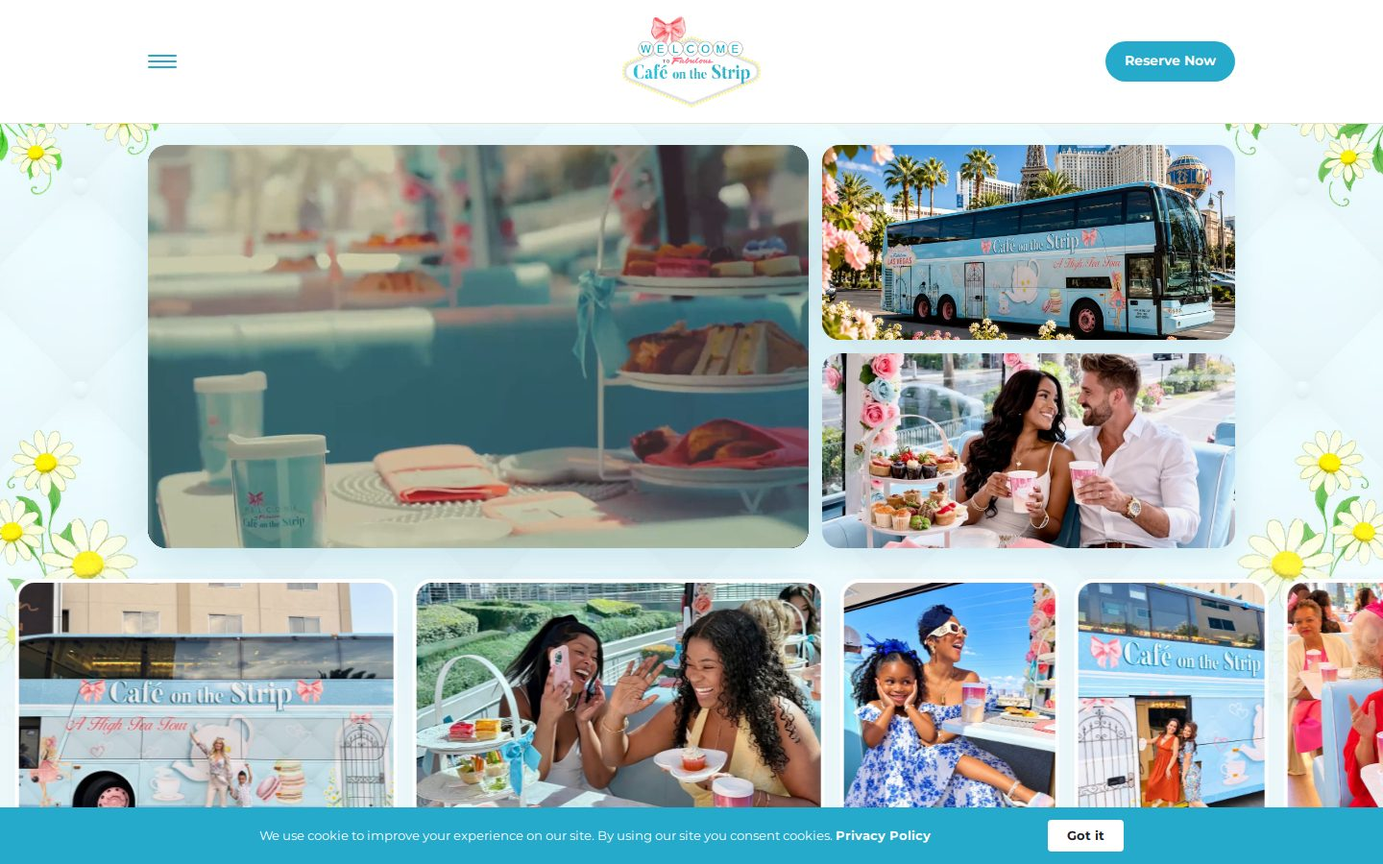
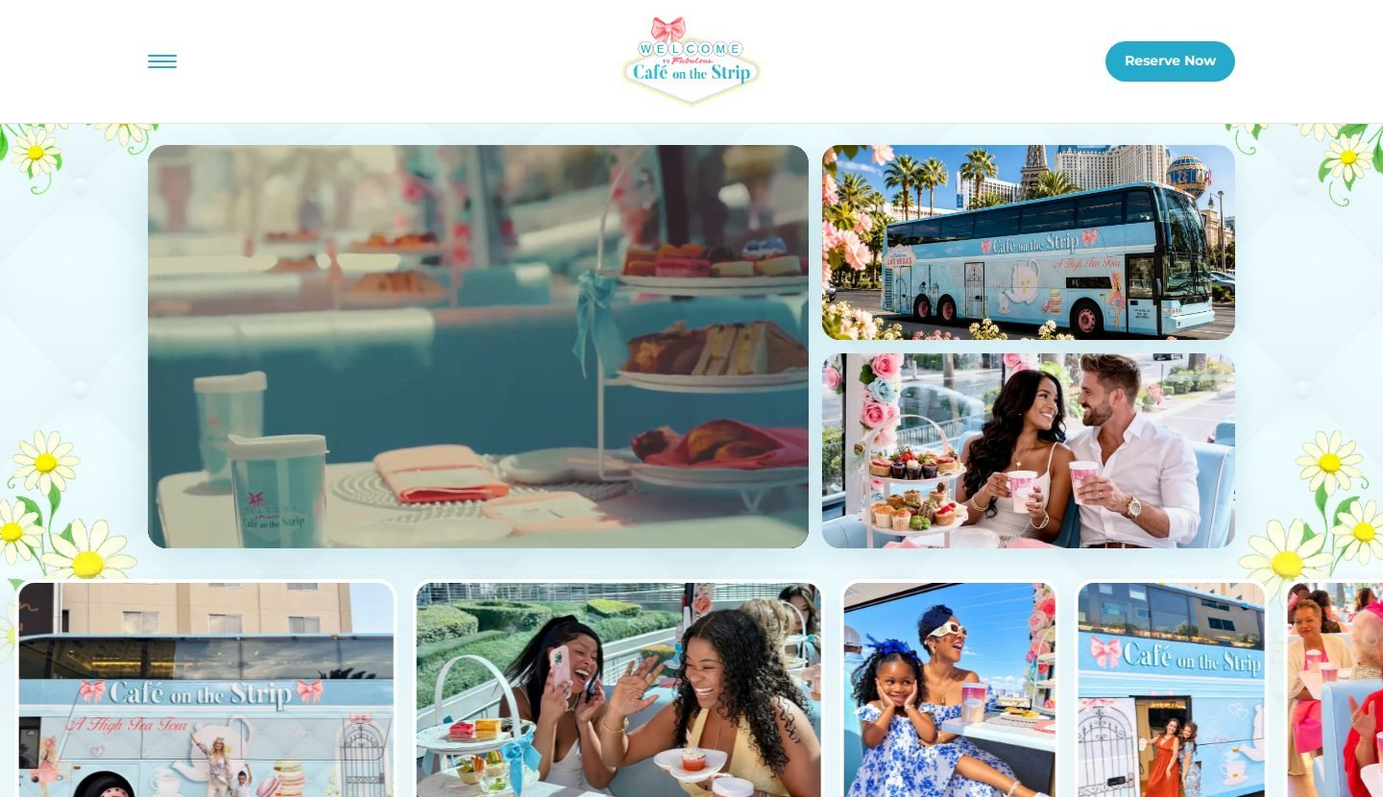
Use fresh client site screenshots across homepage, v2 and client pages
Claude-Session: https://claude.ai/code/session_01Q4xLUYNNi7cM25MPAQdF7H

diff --git a/v2/index.html b/v2/index.html
@@ -63,7 +63,7 @@ header nav .btn{min-height:44px;padding:12px 22px}
 .wall:hover .strip{animation-play-state:paused}
 @keyframes rise{to{transform:translateY(-50%)}}
 .tile{position:relative;border-radius:8px;overflow:hidden;background:var(--panel);border:1px solid var(--rule2)}
-.tile img{width:100%;height:100%;object-fit:cover;object-position:top}
+.tile img{width:100%;height:100%;object-fit:cover;object-position:center top}
 .tile.v img{object-position:center}
 .tile .cap{position:absolute;left:0;right:0;bottom:0;padding:28px 12px 10px;font-size:11px;letter-spacing:1.5px;font-weight:700;text-transform:uppercase;background:linear-gradient(transparent,rgba(10,22,41,.92))}
 .tile .play{position:absolute;right:10px;top:10px;width:30px;height:30px;border-radius:50%;background:var(--orange);display:grid;place-items:center}
@@ -321,7 +321,7 @@ footer nav{display:flex;gap:24px;flex-wrap:wrap}
     </div>
   </div>
   <div class="wall" aria-label="Recent client work">
-    <div class="col" aria-hidden="true"><div class="strip"><div class="tile t-web"><img src="../assets/4d2ef592d0510e323ba92edc35708845.jpg" alt="" loading="eager"><span class="cap">Cosmic Cat, website</span></div><div class="tile t-vid v"><img src="https://i.ytimg.com/vi/BVcCxSfqfWM/hqdefault.jpg" alt=""><span class="play"><svg viewBox="0 0 24 24" aria-hidden="true"><path d="M6 4l14 8-14 8z"/></svg></span><span class="cap">LIUNA, sizzle reel</span></div><div class="tile t-web"><img src="../assets/c8e443209d854f37bfb68903a9dd63be.jpg" alt="" loading="eager"><span class="cap">Miracle Hope, newsletter</span></div><div class="tile t-vid v"><img src="https://i.ytimg.com/vi/6BNDppvrbQU/hqdefault.jpg" alt=""><span class="play"><svg viewBox="0 0 24 24" aria-hidden="true"><path d="M6 4l14 8-14 8z"/></svg></span><span class="cap">Gala interview reel</span></div><div class="tile t-web"><img src="../assets/4d2ef592d0510e323ba92edc35708845.jpg" alt="" loading="eager"><span class="cap">Cosmic Cat, website</span></div><div class="tile t-vid v"><img src="https://i.ytimg.com/vi/BVcCxSfqfWM/hqdefault.jpg" alt=""><span class="play"><svg viewBox="0 0 24 24" aria-hidden="true"><path d="M6 4l14 8-14 8z"/></svg></span><span class="cap">LIUNA, sizzle reel</span></div><div class="tile t-web"><img src="../assets/c8e443209d854f37bfb68903a9dd63be.jpg" alt="" loading="eager"><span class="cap">Miracle Hope, newsletter</span></div><div class="tile t-vid v"><img src="https://i.ytimg.com/vi/6BNDppvrbQU/hqdefault.jpg" alt=""><span class="play"><svg viewBox="0 0 24 24" aria-hidden="true"><path d="M6 4l14 8-14 8z"/></svg></span><span class="cap">Gala interview reel</span></div></div></div><div class="col" aria-hidden="true"><div class="strip"><div class="tile t-vid v"><img src="https://i.ytimg.com/vi/4AgsZDz6i4E/hqdefault.jpg" alt=""><span class="play"><svg viewBox="0 0 24 24" aria-hidden="true"><path d="M6 4l14 8-14 8z"/></svg></span><span class="cap">Las Vegas Ballpark</span></div><div class="tile t-web"><img src="../assets/af09f8afabef745e9b5a152f12bcb552.jpg" alt="" loading="eager"><span class="cap">Drai&#x27;s, landing page</span></div><div class="tile t-vid v"><img src="https://i.ytimg.com/vi/1YlhCGgxdyA/hqdefault.jpg" alt=""><span class="play"><svg viewBox="0 0 24 24" aria-hidden="true"><path d="M6 4l14 8-14 8z"/></svg></span><span class="cap">TRF golf recap</span></div><div class="tile t-web"><img src="../assets/ae7b56d620756728c87436f4ed4a68c7.jpg" alt="" loading="eager"><span class="cap">Cafe on the Strip, ads</span></div><div class="tile t-vid v"><img src="https://i.ytimg.com/vi/4AgsZDz6i4E/hqdefault.jpg" alt=""><span class="play"><svg viewBox="0 0 24 24" aria-hidden="true"><path d="M6 4l14 8-14 8z"/></svg></span><span class="cap">Las Vegas Ballpark</span></div><div class="tile t-web"><img src="../assets/af09f8afabef745e9b5a152f12bcb552.jpg" alt="" loading="eager"><span class="cap">Drai&#x27;s, landing page</span></div><div class="tile t-vid v"><img src="https://i.ytimg.com/vi/1YlhCGgxdyA/hqdefault.jpg" alt=""><span class="play"><svg viewBox="0 0 24 24" aria-hidden="true"><path d="M6 4l14 8-14 8z"/></svg></span><span class="cap">TRF golf recap</span></div><div class="tile t-web"><img src="../assets/ae7b56d620756728c87436f4ed4a68c7.jpg" alt="" loading="eager"><span class="cap">Cafe on the Strip, ads</span></div></div></div><div class="col" aria-hidden="true"><div class="strip"><div class="tile t-web"><img src="../assets/a9a64227ffe4d25c3906b8d315104791.jpg" alt="" loading="eager"><span class="cap">Tyler Robinson Foundation, website</span></div><div class="tile t-vid v"><img src="https://i.ytimg.com/vi/_neFfasAwqs/hqdefault.jpg" alt=""><span class="play"><svg viewBox="0 0 24 24" aria-hidden="true"><path d="M6 4l14 8-14 8z"/></svg></span><span class="cap">UNLV Football Foundation</span></div><div class="tile t-web"><img src="../assets/4d2ef592d0510e323ba92edc35708845.jpg" alt="" loading="eager"><span class="cap">Cosmic Cat, website</span></div><div class="tile t-vid v"><img src="https://i.ytimg.com/vi/Twy-9ifWDFc/hqdefault.jpg" alt=""><span class="play"><svg viewBox="0 0 24 24" aria-hidden="true"><path d="M6 4l14 8-14 8z"/></svg></span><span class="cap">Cure 4 Kids golf classic</span></div><div class="tile t-web"><img src="../assets/a9a64227ffe4d25c3906b8d315104791.jpg" alt="" loading="eager"><span class="cap">Tyler Robinson Foundation, website</span></div><div class="tile t-vid v"><img src="https://i.ytimg.com/vi/_neFfasAwqs/hqdefault.jpg" alt=""><span class="play"><svg viewBox="0 0 24 24" aria-hidden="true"><path d="M6 4l14 8-14 8z"/></svg></span><span class="cap">UNLV Football Foundation</span></div><div class="tile t-web"><img src="../assets/4d2ef592d0510e323ba92edc35708845.jpg" alt="" loading="eager"><span class="cap">Cosmic Cat, website</span></div><div class="tile t-vid v"><img src="https://i.ytimg.com/vi/Twy-9ifWDFc/hqdefault.jpg" alt=""><span class="play"><svg viewBox="0 0 24 24" aria-hidden="true"><path d="M6 4l14 8-14 8z"/></svg></span><span class="cap">Cure 4 Kids golf classic</span></div></div></div>
+    <div class="col" aria-hidden="true"><div class="strip"><div class="tile t-web"><img src="../assets/shots/cosmic-cat-mob.jpg" alt="" loading="eager"><span class="cap">Cosmic Cat, website</span></div><div class="tile t-vid v"><img src="https://i.ytimg.com/vi/BVcCxSfqfWM/hqdefault.jpg" alt=""><span class="play"><svg viewBox="0 0 24 24" aria-hidden="true"><path d="M6 4l14 8-14 8z"/></svg></span><span class="cap">LIUNA, sizzle reel</span></div><div class="tile t-web"><img src="../assets/shots/miracle-hope-foundation-mob.jpg" alt="" loading="eager"><span class="cap">Miracle Hope, website</span></div><div class="tile t-vid v"><img src="https://i.ytimg.com/vi/6BNDppvrbQU/hqdefault.jpg" alt=""><span class="play"><svg viewBox="0 0 24 24" aria-hidden="true"><path d="M6 4l14 8-14 8z"/></svg></span><span class="cap">Gala interview reel</span></div><div class="tile t-web"><img src="../assets/shots/cosmic-cat-mob.jpg" alt="" loading="eager"><span class="cap">Cosmic Cat, website</span></div><div class="tile t-vid v"><img src="https://i.ytimg.com/vi/BVcCxSfqfWM/hqdefault.jpg" alt=""><span class="play"><svg viewBox="0 0 24 24" aria-hidden="true"><path d="M6 4l14 8-14 8z"/></svg></span><span class="cap">LIUNA, sizzle reel</span></div><div class="tile t-web"><img src="../assets/shots/miracle-hope-foundation-mob.jpg" alt="" loading="eager"><span class="cap">Miracle Hope, website</span></div><div class="tile t-vid v"><img src="https://i.ytimg.com/vi/6BNDppvrbQU/hqdefault.jpg" alt=""><span class="play"><svg viewBox="0 0 24 24" aria-hidden="true"><path d="M6 4l14 8-14 8z"/></svg></span><span class="cap">Gala interview reel</span></div></div></div><div class="col" aria-hidden="true"><div class="strip"><div class="tile t-vid v"><img src="https://i.ytimg.com/vi/4AgsZDz6i4E/hqdefault.jpg" alt=""><span class="play"><svg viewBox="0 0 24 24" aria-hidden="true"><path d="M6 4l14 8-14 8z"/></svg></span><span class="cap">Las Vegas Ballpark</span></div><div class="tile t-web"><img src="../assets/shots/drais-after-hours-mob.jpg" alt="" loading="eager"><span class="cap">Drai&#x27;s, website</span></div><div class="tile t-vid v"><img src="https://i.ytimg.com/vi/1YlhCGgxdyA/hqdefault.jpg" alt=""><span class="play"><svg viewBox="0 0 24 24" aria-hidden="true"><path d="M6 4l14 8-14 8z"/></svg></span><span class="cap">TRF golf recap</span></div><div class="tile t-web"><img src="../assets/shots/cafe-on-the-strip-mob.jpg" alt="" loading="eager"><span class="cap">Cafe on the Strip, website</span></div><div class="tile t-vid v"><img src="https://i.ytimg.com/vi/4AgsZDz6i4E/hqdefault.jpg" alt=""><span class="play"><svg viewBox="0 0 24 24" aria-hidden="true"><path d="M6 4l14 8-14 8z"/></svg></span><span class="cap">Las Vegas Ballpark</span></div><div class="tile t-web"><img src="../assets/shots/drais-after-hours-mob.jpg" alt="" loading="eager"><span class="cap">Drai&#x27;s, website</span></div><div class="tile t-vid v"><img src="https://i.ytimg.com/vi/1YlhCGgxdyA/hqdefault.jpg" alt=""><span class="play"><svg viewBox="0 0 24 24" aria-hidden="true"><path d="M6 4l14 8-14 8z"/></svg></span><span class="cap">TRF golf recap</span></div><div class="tile t-web"><img src="../assets/shots/cafe-on-the-strip-mob.jpg" alt="" loading="eager"><span class="cap">Cafe on the Strip, website</span></div></div></div><div class="col" aria-hidden="true"><div class="strip"><div class="tile t-web"><img src="../assets/a9a64227ffe4d25c3906b8d315104791.jpg" alt="" loading="eager"><span class="cap">Tyler Robinson Foundation, website</span></div><div class="tile t-vid v"><img src="https://i.ytimg.com/vi/_neFfasAwqs/hqdefault.jpg" alt=""><span class="play"><svg viewBox="0 0 24 24" aria-hidden="true"><path d="M6 4l14 8-14 8z"/></svg></span><span class="cap">UNLV Football Foundation</span></div><div class="tile t-web"><img src="../assets/shots/cosmic-cat-mob.jpg" alt="" loading="eager"><span class="cap">Cosmic Cat, website</span></div><div class="tile t-vid v"><img src="https://i.ytimg.com/vi/Twy-9ifWDFc/hqdefault.jpg" alt=""><span class="play"><svg viewBox="0 0 24 24" aria-hidden="true"><path d="M6 4l14 8-14 8z"/></svg></span><span class="cap">Cure 4 Kids golf classic</span></div><div class="tile t-web"><img src="../assets/a9a64227ffe4d25c3906b8d315104791.jpg" alt="" loading="eager"><span class="cap">Tyler Robinson Foundation, website</span></div><div class="tile t-vid v"><img src="https://i.ytimg.com/vi/_neFfasAwqs/hqdefault.jpg" alt=""><span class="play"><svg viewBox="0 0 24 24" aria-hidden="true"><path d="M6 4l14 8-14 8z"/></svg></span><span class="cap">UNLV Football Foundation</span></div><div class="tile t-web"><img src="../assets/shots/cosmic-cat-mob.jpg" alt="" loading="eager"><span class="cap">Cosmic Cat, website</span></div><div class="tile t-vid v"><img src="https://i.ytimg.com/vi/Twy-9ifWDFc/hqdefault.jpg" alt=""><span class="play"><svg viewBox="0 0 24 24" aria-hidden="true"><path d="M6 4l14 8-14 8z"/></svg></span><span class="cap">Cure 4 Kids golf classic</span></div></div></div>
   </div>
   <div class="scrollcue" aria-hidden="true"><i></i>Scroll</div>
 </section>
@@ -347,7 +347,7 @@ footer nav{display:flex;gap:24px;flex-wrap:wrap}
     <div class="tally">
       <div class="count os" aria-live="polite"><b id="fixed">0</b> of 5 fixed</div>
       <a class="casechip" href="../cosmic-cat.html">
-        <img src="../assets/4d2ef592d0510e323ba92edc35708845.jpg" alt="">
+        <img src="../assets/shots/cosmic-cat-desk.jpg" alt="">
         <div><small>RECENT SETUP</small><span>Cosmic Cat Claw Arcade: scattered logins to a live booking system</span></div>
       </a>
     </div>
@@ -381,7 +381,7 @@ footer nav{display:flex;gap:24px;flex-wrap:wrap}
             </div>
             <div class="rv">
               <a class="proof" href="../cosmic-cat.html">
-                <div class="shot"><img class="par" src="../assets/4d2ef592d0510e323ba92edc35708845.jpg" alt="Cosmic Cat Claw Arcade website"></div>
+                <div class="shot"><img class="par" src="../assets/shots/cosmic-cat-desk.jpg" alt="Cosmic Cat Claw Arcade website"></div>
                 <div class="bar"><div><small>RECENT WORK</small><span>Cosmic Cat party bookings on Shopify</span></div><span class="go">View project →</span></div>
               </a>
             </div>
@@ -440,8 +440,8 @@ footer nav{display:flex;gap:24px;flex-wrap:wrap}
             </div>
             <div class="rv">
               <a class="proof" href="../cafe-on-the-strip.html">
-                <div class="shot"><img class="par" src="../assets/ae7b56d620756728c87436f4ed4a68c7.jpg" alt="Cafe on the Strip ad landing page"></div>
-                <div class="bar"><div><small>RECENT WORK</small><span>Cafe on the Strip Meta campaigns</span></div><span class="go">View project →</span></div>
+                <div class="shot"><img class="par" src="../assets/shots/cafe-on-the-strip-desk.jpg" alt="Cafe on the Strip website"></div>
+                <div class="bar"><div><small>RECENT WORK</small><span>Cafe on the Strip: site, listings and Meta ads</span></div><span class="go">View project →</span></div>
               </a>
             </div>
           </div>
@@ -458,7 +458,7 @@ footer nav{display:flex;gap:24px;flex-wrap:wrap}
       <p>Open any client to see every project we delivered for them.</p>
     </div>
     <div class="cgrid">
-      <a class="ccard rv" href="../cosmic-cat.html"><div class="im"><img src="../assets/4d2ef592d0510e323ba92edc35708845.jpg" alt="" loading="lazy"></div><div class="tx"><span class="ind">Family entertainment</span><h3 class="os">Cosmic Cat Claw Arcade</h3><div class="tags"><span>Setup</span><span>Design &amp; web</span><span>Search</span></div><span class="more">See every project →</span></div></a><a class="ccard rv" href="../drais-after-hours.html"><div class="im"><img src="../assets/af09f8afabef745e9b5a152f12bcb552.jpg" alt="" loading="lazy"></div><div class="tx"><span class="ind">Nightlife</span><h3 class="os">Drai&#x27;s After Hours</h3><div class="tags"><span>Design &amp; web</span><span>Email</span><span>Search</span></div><span class="more">See every project →</span></div></a><a class="ccard rv" href="../cafe-on-the-strip.html"><div class="im"><img src="../assets/ae7b56d620756728c87436f4ed4a68c7.jpg" alt="" loading="lazy"></div><div class="tx"><span class="ind">Tours and hospitality</span><h3 class="os">Cafe on the Strip</h3><div class="tags"><span>Design &amp; web</span><span>Content</span><span>Search</span></div><span class="more">See every project →</span></div></a><a class="ccard rv" href="../tyler-robinson-foundation.html"><div class="im"><img src="../assets/a9a64227ffe4d25c3906b8d315104791.jpg" alt="" loading="lazy"></div><div class="tx"><span class="ind">Nonprofit</span><h3 class="os">Tyler Robinson Foundation</h3><div class="tags"><span>Design &amp; web</span><span>Video</span></div><span class="more">See every project →</span></div></a><a class="ccard rv" href="../miracle-hope-foundation.html"><div class="im"><img src="../assets/c8e443209d854f37bfb68903a9dd63be.jpg" alt="" loading="lazy"></div><div class="tx"><span class="ind">Nonprofit</span><h3 class="os">Miracle Hope Foundation</h3><div class="tags"><span>Design &amp; web</span><span>Email</span></div><span class="more">See every project →</span></div></a><a class="ccard rv" href="../booty-thai-kitchen.html"><div class="im"><img src="../assets/9c96955e3954576f271ee670466c9be8.jpg" alt="" loading="lazy"></div><div class="tx"><span class="ind">Restaurant</span><h3 class="os">Booty Thai Kitchen</h3><div class="tags"><span>Design &amp; web</span></div><span class="more">See every project →</span></div></a>
+      <a class="ccard rv" href="../cosmic-cat.html"><div class="im"><img src="../assets/shots/cosmic-cat-desk.jpg" alt="" loading="lazy"></div><div class="tx"><span class="ind">Family entertainment</span><h3 class="os">Cosmic Cat Claw Arcade</h3><div class="tags"><span>Setup</span><span>Design &amp; web</span><span>Search</span></div><span class="more">See every project →</span></div></a><a class="ccard rv" href="../drais-after-hours.html"><div class="im"><img src="../assets/shots/drais-after-hours-desk.jpg" alt="" loading="lazy"></div><div class="tx"><span class="ind">Nightlife</span><h3 class="os">Drai&#x27;s After Hours</h3><div class="tags"><span>Design &amp; web</span><span>Email</span><span>Search</span></div><span class="more">See every project →</span></div></a><a class="ccard rv" href="../cafe-on-the-strip.html"><div class="im"><img src="../assets/shots/cafe-on-the-strip-desk.jpg" alt="" loading="lazy"></div><div class="tx"><span class="ind">Tours and hospitality</span><h3 class="os">Cafe on the Strip</h3><div class="tags"><span>Design &amp; web</span><span>Content</span><span>Search</span></div><span class="more">See every project →</span></div></a><a class="ccard rv" href="../tyler-robinson-foundation.html"><div class="im"><img src="../assets/a9a64227ffe4d25c3906b8d315104791.jpg" alt="" loading="lazy"></div><div class="tx"><span class="ind">Nonprofit</span><h3 class="os">Tyler Robinson Foundation</h3><div class="tags"><span>Design &amp; web</span><span>Video</span></div><span class="more">See every project →</span></div></a><a class="ccard rv" href="../miracle-hope-foundation.html"><div class="im"><img src="../assets/shots/miracle-hope-foundation-desk.jpg" alt="" loading="lazy"></div><div class="tx"><span class="ind">Nonprofit</span><h3 class="os">Miracle Hope Foundation</h3><div class="tags"><span>Design &amp; web</span><span>Email</span></div><span class="more">See every project →</span></div></a><a class="ccard rv" href="../booty-thai-kitchen.html"><div class="im"><img src="../assets/shots/booty-thai-kitchen-desk.jpg" alt="" loading="lazy"></div><div class="tx"><span class="ind">Restaurant</span><h3 class="os">Booty Thai Kitchen</h3><div class="tags"><span>Design &amp; web</span></div><span class="more">See every project →</span></div></a>
     </div>
     <p class="also rv">Also: Fatburger Hughes Center, Peaks Advisory Group, UNLV Football Foundation, Desert Moon Wellness</p>
   </div>

diff --git a/index.html b/index.html
@@ -110,15 +110,15 @@ a{color:#FFFFFF;text-decoration:none}a:hover{color:#2BA9E0}
 <div class="stack" style="position: relative; height: 600px">
 <div class="stack-item" style="position: absolute; left: 0; top: 40px; width: 470px; border-radius: 10px; overflow: hidden; background: #13233F; border: 1px solid #22385E; transform: rotate(-4deg); box-shadow: 0 30px 60px rgba(0,0,0,0.45)">
 <div style="height: 28px; display: flex; align-items: center; gap: 6px; padding: 0 12px"><span style="width: 8px; height: 8px; border-radius: 50%; background: #2E4468"></span><span style="width: 8px; height: 8px; border-radius: 50%; background: #2E4468"></span><span style="width: 8px; height: 8px; border-radius: 50%; background: #2E4468"></span></div>
-<img src="assets/af09f8afabef745e9b5a152f12bcb552.jpg" alt="Drai's After Hours bachelorette landing page" style="display: block; width: 100%; height: 294px; object-fit: cover; object-position: top">
+<img src="assets/shots/drais-after-hours-desk.jpg" alt="Drai's After Hours bachelorette landing page" style="display: block; width: 100%; height: 294px; object-fit: cover; object-position: top">
 </div>
 <div class="stack-item" style="position: absolute; right: 0; top: 0; width: 440px; border-radius: 10px; overflow: hidden; background: #13233F; border: 1px solid #22385E; transform: rotate(3deg); box-shadow: 0 30px 60px rgba(0,0,0,0.45)">
 <div style="height: 28px; display: flex; align-items: center; gap: 6px; padding: 0 12px"><span style="width: 8px; height: 8px; border-radius: 50%; background: #2E4468"></span><span style="width: 8px; height: 8px; border-radius: 50%; background: #2E4468"></span><span style="width: 8px; height: 8px; border-radius: 50%; background: #2E4468"></span></div>
-<img src="assets/ae7b56d620756728c87436f4ed4a68c7.jpg" alt="Cafe on the Strip" style="display: block; width: 100%; height: 275px; object-fit: cover; object-position: top">
+<img src="assets/shots/cafe-on-the-strip-desk.jpg" alt="Cafe on the Strip" style="display: block; width: 100%; height: 275px; object-fit: cover; object-position: top">
 </div>
 <div class="stack-item" style="position: absolute; left: 70px; top: 300px; width: 520px; border-radius: 10px; overflow: hidden; background: #13233F; border: 1px solid #22385E; transform: rotate(-1deg); box-shadow: 0 40px 80px rgba(0,0,0,0.55)">
 <div style="height: 28px; display: flex; align-items: center; gap: 6px; padding: 0 12px"><span style="width: 8px; height: 8px; border-radius: 50%; background: #2E4468"></span><span style="width: 8px; height: 8px; border-radius: 50%; background: #2E4468"></span><span style="width: 8px; height: 8px; border-radius: 50%; background: #2E4468"></span></div>
-<img src="assets/4d2ef592d0510e323ba92edc35708845.jpg" alt="Cosmic Cat Claw Arcade homepage" style="display: block; width: 100%; height: 325px; object-fit: cover; object-position: top">
+<img src="assets/shots/cosmic-cat-desk.jpg" alt="Cosmic Cat Claw Arcade homepage" style="display: block; width: 100%; height: 325px; object-fit: cover; object-position: top">
 </div>
 </div>
 </section>
@@ -172,7 +172,7 @@ a{color:#FFFFFF;text-decoration:none}a:hover{color:#2BA9E0}
 </div>
 </div>
 <a href="cosmic-cat.html" style="align-self: flex-start; display: flex; align-items: center; gap: 16px; padding: 12px 20px 12px 12px; border-radius: 8px; background: #0F1E36; border: 1px solid #1B2E4F">
-<img src="assets/4d2ef592d0510e323ba92edc35708845.jpg" alt="" style="width: 120px; height: 75px; object-fit: cover; object-position: top; border-radius: 4px">
+<img src="assets/shots/cosmic-cat-desk.jpg" alt="" style="width: 120px; height: 75px; object-fit: cover; object-position: top; border-radius: 4px">
 <span style="display: flex; flex-direction: column; gap: 4px"><span style="font-size: 12px; letter-spacing: 2px; font-weight: 600; color: #8093B0">RECENT SETUP</span><span style="font-size: 16px; font-weight: 600">Cosmic Cat Claw Arcade, from scattered logins to a live party booking system</span></span>
 </a>
 </section>
@@ -196,7 +196,7 @@ a{color:#FFFFFF;text-decoration:none}a:hover{color:#2BA9E0}
 <div style="display: flex; flex-direction: column; gap: 24px">
 <p style="margin: 0; font-size: 18px; line-height: 1.6; color: #B7C6DA">Websites, stores and brands built to turn a visit into a booking, an order or a call.</p>
 <a href="cosmic-cat.html" style="display: flex; align-items: center; gap: 16px; padding: 12px; border-radius: 8px; background: #0F1E36; border: 1px solid #1B2E4F">
-<img src="assets/4d2ef592d0510e323ba92edc35708845.jpg" alt="" style="width: 120px; height: 75px; object-fit: cover; object-position: top; border-radius: 4px">
+<img src="assets/shots/cosmic-cat-desk.jpg" alt="" style="width: 120px; height: 75px; object-fit: cover; object-position: top; border-radius: 4px">
 <span style="display: flex; flex-direction: column; gap: 4px"><span style="font-size: 12px; letter-spacing: 2px; font-weight: 600; color: #8093B0">RECENT WORK</span><span style="font-size: 16px; font-weight: 600">Cosmic Cat party bookings on Shopify</span></span>
 </a>
 </div>
@@ -238,7 +238,7 @@ a{color:#FFFFFF;text-decoration:none}a:hover{color:#2BA9E0}
 <div style="display: flex; flex-direction: column; gap: 24px">
 <p style="margin: 0; font-size: 18px; line-height: 1.6; color: #B7C6DA">Newsletters and automated flows on a list you own, so your best customers hear from you first.</p>
 <a href="miracle-hope-foundation.html" style="display: flex; align-items: center; gap: 16px; padding: 12px; border-radius: 8px; background: #0F1E36; border: 1px solid #1B2E4F">
-<img src="assets/c8e443209d854f37bfb68903a9dd63be.jpg" alt="" style="width: 120px; height: 75px; object-fit: cover; object-position: top; border-radius: 4px">
+<img src="assets/shots/miracle-hope-foundation-desk.jpg" alt="" style="width: 120px; height: 75px; object-fit: cover; object-position: top; border-radius: 4px">
 <span style="display: flex; flex-direction: column; gap: 4px"><span style="font-size: 12px; letter-spacing: 2px; font-weight: 600; color: #8093B0">RECENT WORK</span><span style="font-size: 16px; font-weight: 600">The Hope Report, Miracle Hope Foundation</span></span>
 </a>
 </div>
@@ -272,7 +272,7 @@ a{color:#FFFFFF;text-decoration:none}a:hover{color:#2BA9E0}
 <p style="margin: 0; font-size: 18px; line-height: 1.6; color: #B7C6DA">People now ask ChatGPT, Google's AI Overviews and Perplexity which business to call. These tools write one answer and name a few businesses. GEO is the work behind getting your business named in those answers.</p>
 <p style="margin: 0; font-size: 18px; line-height: 1.6; color: #B7C6DA">We pair GEO with local search, listings, structured data and paid ads, so you show up in Google results and in AI answers.</p>
 <a href="cafe-on-the-strip.html" style="display: flex; align-items: center; gap: 16px; padding: 12px; border-radius: 8px; background: #0F1E36; border: 1px solid #1B2E4F">
-<img src="assets/ae7b56d620756728c87436f4ed4a68c7.jpg" alt="" style="width: 120px; height: 75px; object-fit: cover; object-position: top; border-radius: 4px">
+<img src="assets/shots/cafe-on-the-strip-desk.jpg" alt="" style="width: 120px; height: 75px; object-fit: cover; object-position: top; border-radius: 4px">
 <span style="display: flex; flex-direction: column; gap: 4px"><span style="font-size: 12px; letter-spacing: 2px; font-weight: 600; color: #8093B0">RECENT WORK</span><span style="font-size: 16px; font-weight: 600">Cafe on the Strip Meta campaigns</span></span>
 </a>
 </div>
@@ -298,21 +298,21 @@ a{color:#FFFFFF;text-decoration:none}a:hover{color:#2BA9E0}
 </div>
 <div style="display: flex; flex-direction: column; border-top: 1px solid #1B2E4F">
 <a href="cosmic-cat.html" class="gclient" style="box-sizing: border-box; padding: 20px 0; border-bottom: 1px solid #1B2E4F; display: grid; grid-template-columns: 136px minmax(0, 5fr) minmax(0, 3fr) minmax(0, 4fr) 32px; gap: 32px; align-items: center">
-<img src="assets/4d2ef592d0510e323ba92edc35708845.jpg" alt="" style="width: 136px; height: 80px; object-fit: cover; object-position: top; border-radius: 4px">
+<img src="assets/shots/cosmic-cat-desk.jpg" alt="" style="width: 136px; height: 80px; object-fit: cover; object-position: top; border-radius: 4px">
 <span class="t4" style="font-family: Oswald, sans-serif; font-size: 30px; font-weight: 500; text-transform: uppercase">Cosmic Cat Claw Arcade</span>
 <span style="font-size: 15px; color: #9FB3CC">Family entertainment</span>
 <span style="font-size: 13px; font-weight: 600; letter-spacing: 1px; color: #C9D5E6">DESIGN &amp; WEB · SEARCH</span>
 <span style="font-size: 22px; color: #ED5E3C">→</span>
 </a>
 <a href="drais-after-hours.html" class="gclient" style="box-sizing: border-box; padding: 20px 0; border-bottom: 1px solid #1B2E4F; display: grid; grid-template-columns: 136px minmax(0, 5fr) minmax(0, 3fr) minmax(0, 4fr) 32px; gap: 32px; align-items: center">
-<img src="assets/af09f8afabef745e9b5a152f12bcb552.jpg" alt="" style="width: 136px; height: 80px; object-fit: cover; object-position: top; border-radius: 4px">
+<img src="assets/shots/drais-after-hours-desk.jpg" alt="" style="width: 136px; height: 80px; object-fit: cover; object-position: top; border-radius: 4px">
 <span class="t4" style="font-family: Oswald, sans-serif; font-size: 30px; font-weight: 500; text-transform: uppercase">Drai's After Hours</span>
 <span style="font-size: 15px; color: #9FB3CC">Nightlife</span>
 <span style="font-size: 13px; font-weight: 600; letter-spacing: 1px; color: #C9D5E6">DESIGN &amp; WEB · EMAIL · SEARCH</span>
 <span style="font-size: 22px; color: #ED5E3C">→</span>
 </a>
 <a href="cafe-on-the-strip.html" class="gclient" style="box-sizing: border-box; padding: 20px 0; border-bottom: 1px solid #1B2E4F; display: grid; grid-template-columns: 136px minmax(0, 5fr) minmax(0, 3fr) minmax(0, 4fr) 32px; gap: 32px; align-items: center">
-<img src="assets/ae7b56d620756728c87436f4ed4a68c7.jpg" alt="" style="width: 136px; height: 80px; object-fit: cover; object-position: top; border-radius: 4px">
+<img src="assets/shots/cafe-on-the-strip-desk.jpg" alt="" style="width: 136px; height: 80px; object-fit: cover; object-position: top; border-radius: 4px">
 <span class="t4" style="font-family: Oswald, sans-serif; font-size: 30px; font-weight: 500; text-transform: uppercase">Cafe on the Strip</span>
 <span style="font-size: 15px; color: #9FB3CC">Tours and hospitality</span>
 <span style="font-size: 13px; font-weight: 600; letter-spacing: 1px; color: #C9D5E6">DESIGN &amp; WEB · CONTENT · SEARCH</span>
@@ -326,14 +326,14 @@ a{color:#FFFFFF;text-decoration:none}a:hover{color:#2BA9E0}
 <span style="font-size: 22px; color: #ED5E3C">→</span>
 </a>
 <a href="miracle-hope-foundation.html" class="gclient" style="box-sizing: border-box; padding: 20px 0; border-bottom: 1px solid #1B2E4F; display: grid; grid-template-columns: 136px minmax(0, 5fr) minmax(0, 3fr) minmax(0, 4fr) 32px; gap: 32px; align-items: center">
-<img src="assets/c8e443209d854f37bfb68903a9dd63be.jpg" alt="" style="width: 136px; height: 80px; object-fit: cover; object-position: top; border-radius: 4px">
+<img src="assets/shots/miracle-hope-foundation-desk.jpg" alt="" style="width: 136px; height: 80px; object-fit: cover; object-position: top; border-radius: 4px">
 <span class="t4" style="font-family: Oswald, sans-serif; font-size: 30px; font-weight: 500; text-transform: uppercase">Miracle Hope Foundation</span>
 <span style="font-size: 15px; color: #9FB3CC">Nonprofit</span>
 <span style="font-size: 13px; font-weight: 600; letter-spacing: 1px; color: #C9D5E6">DESIGN &amp; WEB · EMAIL</span>
 <span style="font-size: 22px; color: #ED5E3C">→</span>
 </a>
 <a href="booty-thai-kitchen.html" class="gclient" style="box-sizing: border-box; padding: 20px 0; border-bottom: 1px solid #1B2E4F; display: grid; grid-template-columns: 136px minmax(0, 5fr) minmax(0, 3fr) minmax(0, 4fr) 32px; gap: 32px; align-items: center">
-<img src="assets/9c96955e3954576f271ee670466c9be8.jpg" alt="" style="width: 136px; height: 80px; object-fit: cover; object-position: top; border-radius: 4px">
+<img src="assets/shots/booty-thai-kitchen-desk.jpg" alt="" style="width: 136px; height: 80px; object-fit: cover; object-position: top; border-radius: 4px">
 <span class="t4" style="font-family: Oswald, sans-serif; font-size: 30px; font-weight: 500; text-transform: uppercase">Booty Thai Kitchen</span>
 <span style="font-size: 15px; color: #9FB3CC">Restaurant</span>
 <span style="font-size: 13px; font-weight: 600; letter-spacing: 1px; color: #C9D5E6">DESIGN &amp; WEB</span>

diff --git a/miracle-hope-foundation.html b/miracle-hope-foundation.html
@@ -106,7 +106,7 @@ a{color:#FFFFFF;text-decoration:none}a:hover{color:#2BA9E0}
 <section class="band-pad gut" style="flex-shrink: 0; box-sizing: border-box; padding: 0 80px">
 <div style="border-radius: 10px; overflow: hidden; background: #13233F; border: 1px solid #22385E">
 <div style="height: 34px; display: flex; align-items: center; gap: 7px; padding: 0 16px"><span style="width: 10px; height: 10px; border-radius: 50%; background: #2E4468"></span><span style="width: 10px; height: 10px; border-radius: 50%; background: #2E4468"></span><span style="width: 10px; height: 10px; border-radius: 50%; background: #2E4468"></span></div>
-<img src="assets/c8e443209d854f37bfb68903a9dd63be.jpg" alt="Miracle Hope Foundation work sample" class="img-tall" style="display: block; width: 100%; height: 760px; object-fit: cover; object-position: top">
+<img src="assets/shots/miracle-hope-foundation-desk.jpg" alt="Miracle Hope Foundation work sample" class="img-tall" style="display: block; width: 100%; height: 760px; object-fit: cover; object-position: top">
 </div>
 </section>
 

diff --git a/drais-after-hours.html b/drais-after-hours.html
@@ -106,7 +106,7 @@ a{color:#FFFFFF;text-decoration:none}a:hover{color:#2BA9E0}
 <section class="band-pad gut" style="flex-shrink: 0; box-sizing: border-box; padding: 0 80px">
 <div style="border-radius: 10px; overflow: hidden; background: #13233F; border: 1px solid #22385E">
 <div style="height: 34px; display: flex; align-items: center; gap: 7px; padding: 0 16px"><span style="width: 10px; height: 10px; border-radius: 50%; background: #2E4468"></span><span style="width: 10px; height: 10px; border-radius: 50%; background: #2E4468"></span><span style="width: 10px; height: 10px; border-radius: 50%; background: #2E4468"></span></div>
-<img src="assets/af09f8afabef745e9b5a152f12bcb552.jpg" alt="Drai&#x27;s After Hours work sample" class="img-tall" style="display: block; width: 100%; height: 760px; object-fit: cover; object-position: top">
+<img src="assets/shots/drais-after-hours-desk.jpg" alt="Drai&#x27;s After Hours work sample" class="img-tall" style="display: block; width: 100%; height: 760px; object-fit: cover; object-position: top">
 </div>
 </section>
 

diff --git a/booty-thai-kitchen.html b/booty-thai-kitchen.html
@@ -106,7 +106,7 @@ a{color:#FFFFFF;text-decoration:none}a:hover{color:#2BA9E0}
 <section class="band-pad gut" style="flex-shrink: 0; box-sizing: border-box; padding: 0 80px">
 <div style="border-radius: 10px; overflow: hidden; background: #13233F; border: 1px solid #22385E">
 <div style="height: 34px; display: flex; align-items: center; gap: 7px; padding: 0 16px"><span style="width: 10px; height: 10px; border-radius: 50%; background: #2E4468"></span><span style="width: 10px; height: 10px; border-radius: 50%; background: #2E4468"></span><span style="width: 10px; height: 10px; border-radius: 50%; background: #2E4468"></span></div>
-<img src="assets/9c96955e3954576f271ee670466c9be8.jpg" alt="Booty Thai Kitchen work sample" class="img-tall" style="display: block; width: 100%; height: 760px; object-fit: cover; object-position: top">
+<img src="assets/shots/booty-thai-kitchen-desk.jpg" alt="Booty Thai Kitchen work sample" class="img-tall" style="display: block; width: 100%; height: 760px; object-fit: cover; object-position: top">
 </div>
 </section>
 

diff --git a/cafe-on-the-strip.html b/cafe-on-the-strip.html
@@ -106,7 +106,7 @@ a{color:#FFFFFF;text-decoration:none}a:hover{color:#2BA9E0}
 <section class="band-pad gut" style="flex-shrink: 0; box-sizing: border-box; padding: 0 80px">
 <div style="border-radius: 10px; overflow: hidden; background: #13233F; border: 1px solid #22385E">
 <div style="height: 34px; display: flex; align-items: center; gap: 7px; padding: 0 16px"><span style="width: 10px; height: 10px; border-radius: 50%; background: #2E4468"></span><span style="width: 10px; height: 10px; border-radius: 50%; background: #2E4468"></span><span style="width: 10px; height: 10px; border-radius: 50%; background: #2E4468"></span></div>
-<img src="assets/ae7b56d620756728c87436f4ed4a68c7.jpg" alt="Cafe on the Strip work sample" class="img-tall" style="display: block; width: 100%; height: 760px; object-fit: cover; object-position: top">
+<img src="assets/shots/cafe-on-the-strip-desk.jpg" alt="Cafe on the Strip work sample" class="img-tall" style="display: block; width: 100%; height: 760px; object-fit: cover; object-position: top">
 </div>
 </section>
 

diff --git a/cosmic-cat.html b/cosmic-cat.html
@@ -110,7 +110,7 @@ a{color:#FFFFFF;text-decoration:none}a:hover{color:#2BA9E0}
 <section class="band-pad gut" style="flex-shrink: 0; box-sizing: border-box; padding: 0 80px">
 <div style="border-radius: 10px; overflow: hidden; background: #13233F; border: 1px solid #22385E">
 <div style="height: 34px; display: flex; align-items: center; gap: 7px; padding: 0 16px"><span style="width: 10px; height: 10px; border-radius: 50%; background: #2E4468"></span><span style="width: 10px; height: 10px; border-radius: 50%; background: #2E4468"></span><span style="width: 10px; height: 10px; border-radius: 50%; background: #2E4468"></span></div>
-<img src="assets/4d2ef592d0510e323ba92edc35708845.jpg" alt="Cosmic Cat Claw Arcade homepage" class="img-tall" style="display: block; width: 100%; height: 760px; object-fit: cover; object-position: top">
+<img src="assets/shots/cosmic-cat-desk.jpg" alt="Cosmic Cat Claw Arcade homepage" class="img-tall" style="display: block; width: 100%; height: 760px; object-fit: cover; object-position: top">
 </div>
 </section>
 
